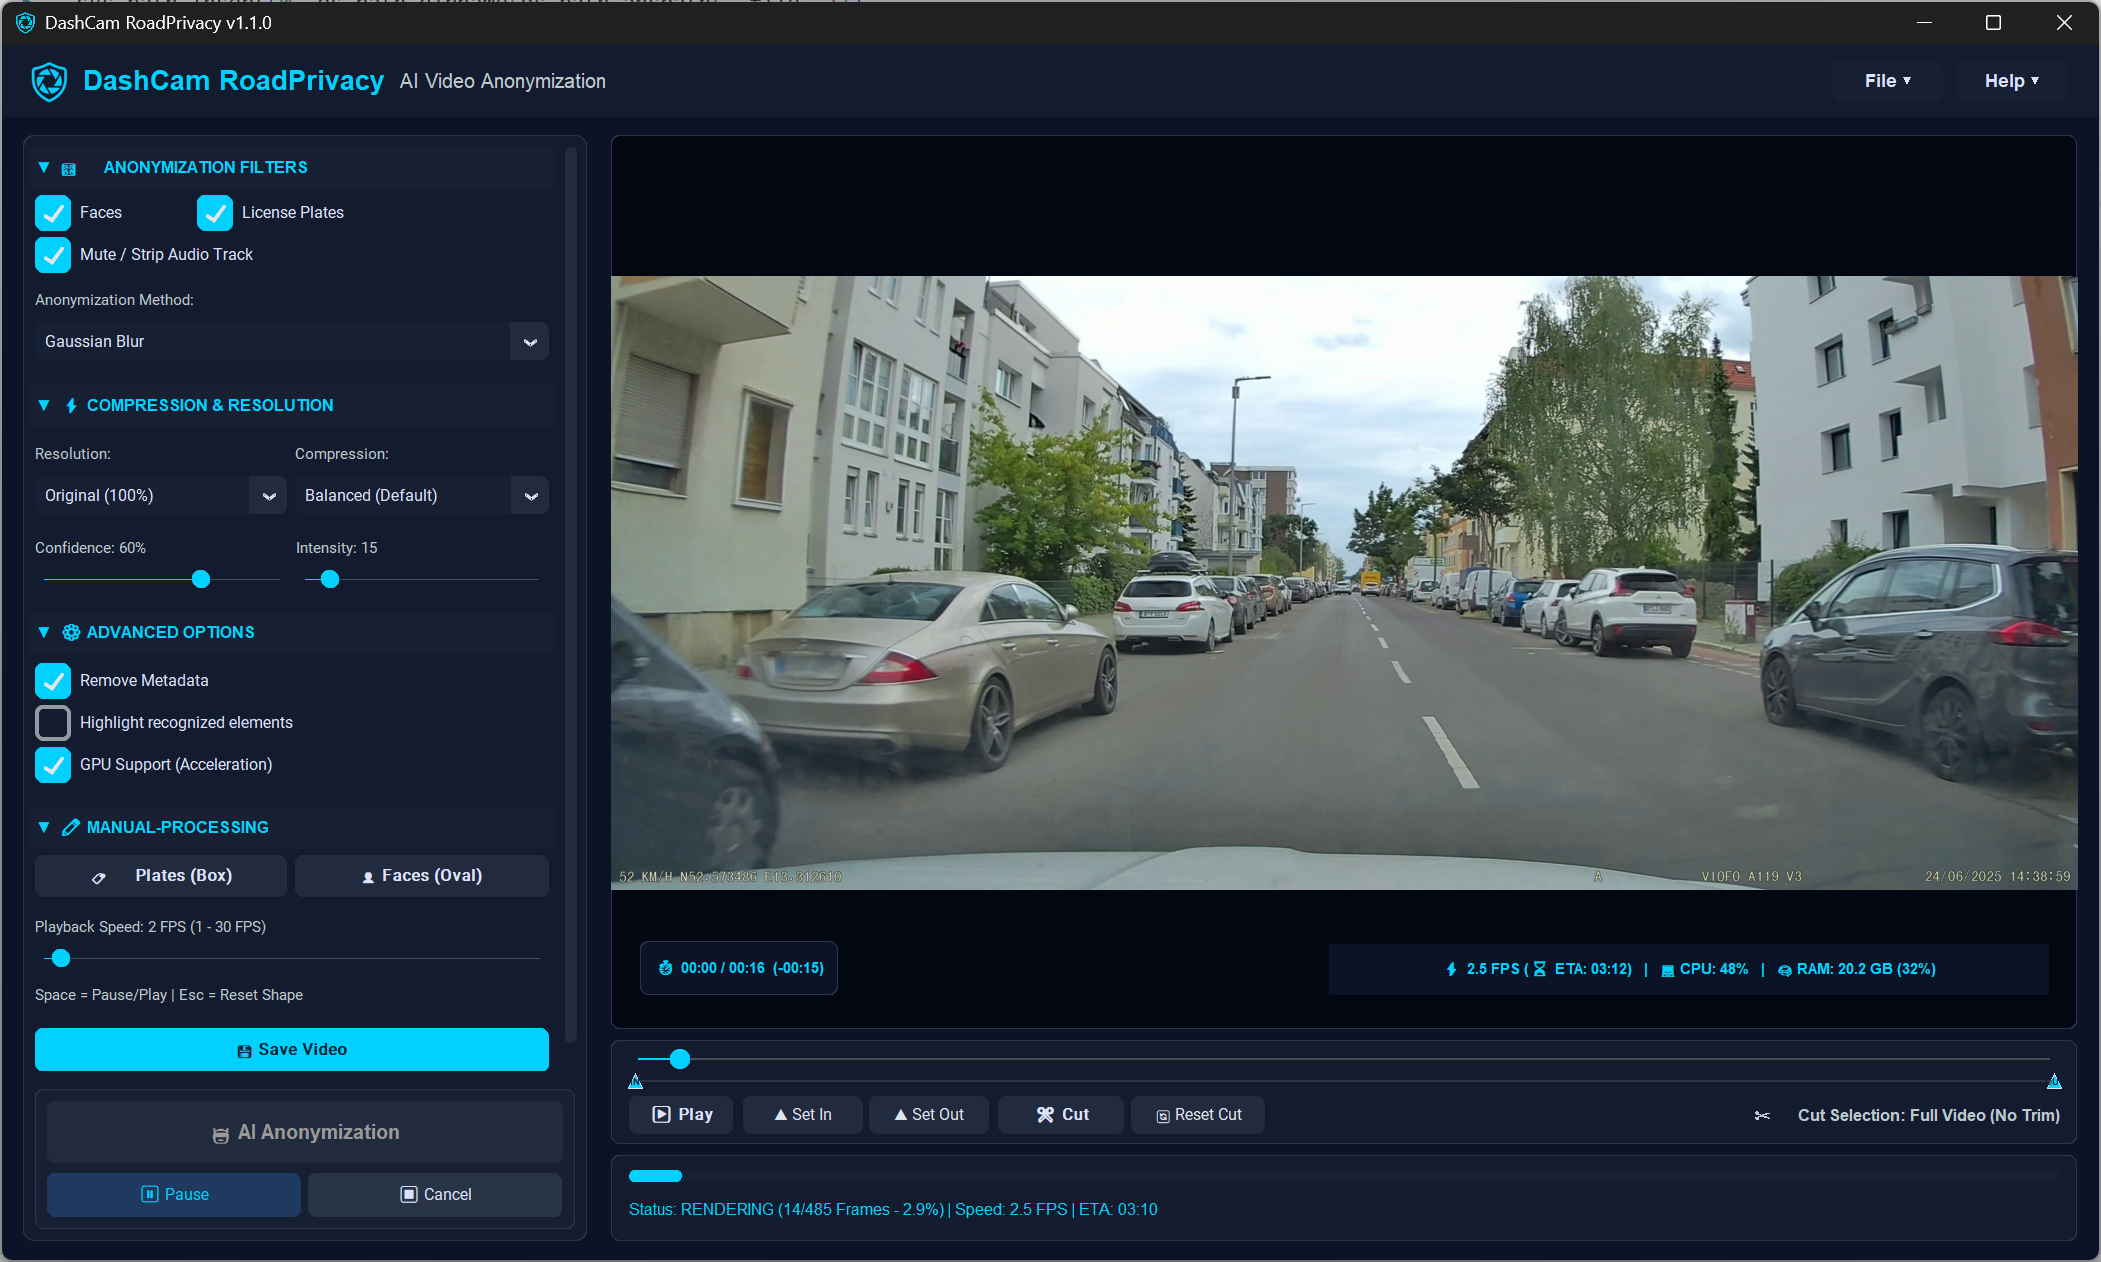
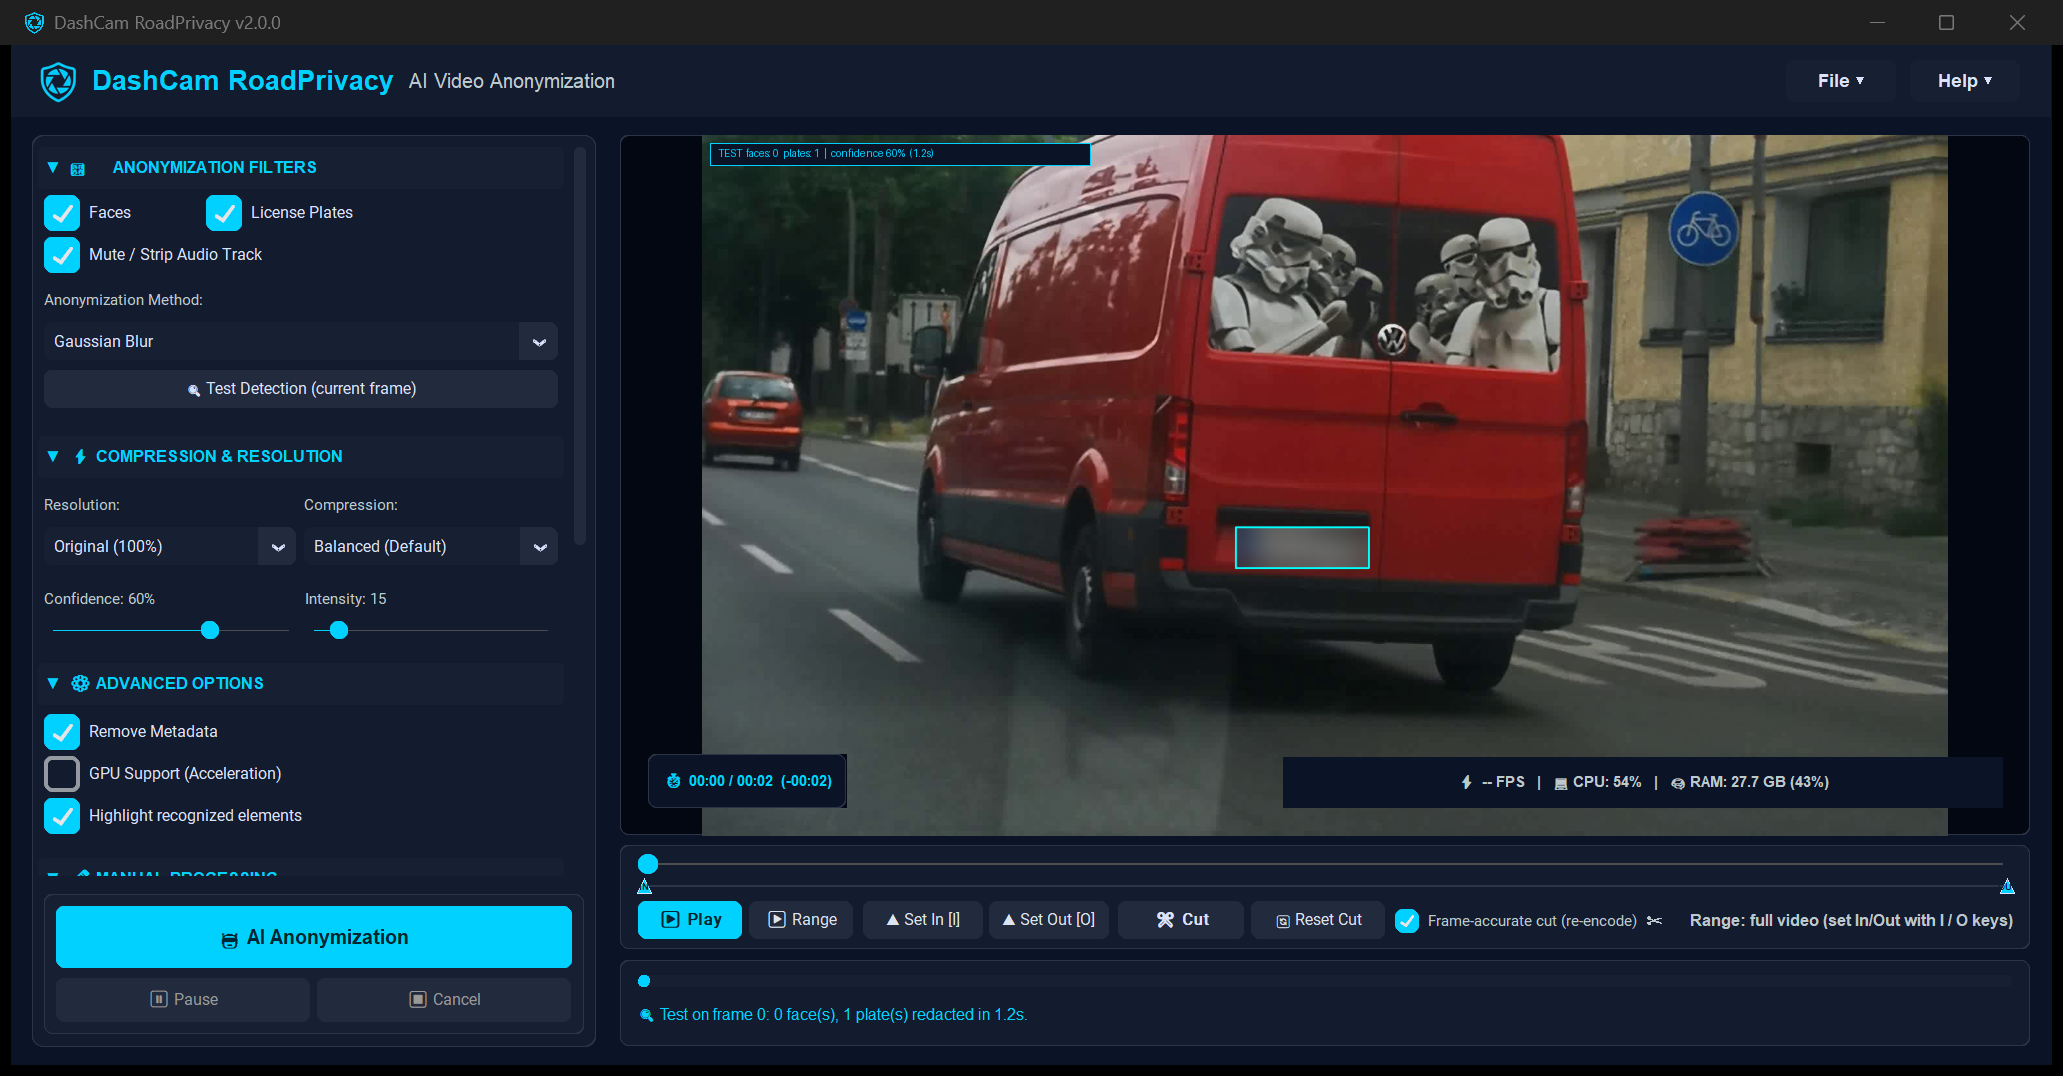
Release v2.0.0: Update binaries, screenshot, and documentation for V2.0

diff --git a/README.md b/README.md
@@ -1,6 +1,6 @@
 # DashCam RoadPrivacy
 
-[![Release Version](https://img.shields.io/badge/Release-v1.1.0-electriccyan?style=for-the-badge&logo=github)](https://github.com/engstaNET/DashCam_RoadPrivacy/releases)
+[![Release Version](https://img.shields.io/badge/Release-v2.0.0-electriccyan?style=for-the-badge&logo=github)](https://github.com/engstaNET/DashCam_RoadPrivacy/releases)
 [![Platform](https://img.shields.io/badge/Platform-Windows%2010%2F11%20x64-blue?style=for-the-badge&logo=windows)](https://github.com/engstaNET/DashCam_RoadPrivacy)
 [![License](https://img.shields.io/badge/License-Freeware-green?style=for-the-badge)](LICENSE)
 [![Privacy](https://img.shields.io/badge/Privacy-100%25%20Local%20%2F%20Offline-success?style=for-the-badge)](PRIVACY.md)
@@ -13,30 +13,35 @@
 
 ## 🌟 Key Features
 
-- **⚡ Dual AI Engine Detection:**
-  - **License Plates:** Dedicated deep learning **RT-DETRv2 ONNX** model combined with multi-stage YOLOv8 and Haar Cascade verification for high-precision country-neutral automotive plate detection.
-  - **Faces:** Ultra-fast OpenCV YuNet DNN Face Detector tuned for distant and small faces in public street scenes.
-- **🚀 GPU Hardware Acceleration:** Microsoft DirectML & ONNX Runtime support for NVIDIA, AMD, and Intel GPUs, plus multi-threaded CPU fallback.
-- **✏ Interactive Manual-Processing Mode:** Frame-by-frame manual redaction tool allowing custom bounding boxes and shapes with instant timeline scrubbing and synchronization.
+- **🎯 Vehicle-Restricted License Plate Detection:**
+  - **YOLOv8 & RT-DETRv2 Pipeline:** YOLOv8 identifies vehicles first; RT-DETRv2 ONNX scans vehicle regions exclusively to eliminate background false positives on pavement, walls, and road markings.
+  - **1080p Detail Tiles:** Alternating high-resolution detail passes double detection recall for distant and parked vehicle plates on 1080p+ footage.
+  - **Look-Behind Redaction:** Frames are buffered to ensure plates and faces are redacted even before detection confirmation thresholds are met.
+- **⚡ Face Detection:**
+  - Ultra-fast OpenCV YuNet DNN Face Detector tuned for distant and small faces in public street scenes.
+- **🚀 GPU Hardware Acceleration & Auto-Benchmarking:**
+  - Microsoft DirectML & ONNX Runtime support for NVIDIA, AMD, and Intel GPUs.
+  - Startup benchmark automatically evaluates DirectML vs. CPU cores and selects the fastest provider.
+- **✏ Interactive Manual-Processing Mode:**
+  - Keyframe-based timeline editor with automated CSRT tracking, backward tracking, jump/end/delete, and manual test detection.
 - **🔒 100% Local & Private:** Runs entirely offline on your PC. No internet connection required, zero cloud uploads, and zero telemetry.
-- **✂ Lossless Stream-Copy Video Trimming:** Keyframe-aligned sub-second fast trim without video re-encoding when cutting.
-- **🎛 Anonymization Customization:**
-  - **Redaction Modes:** Gaussian Blur, Mosaic Pixelation, and Solid Blackout.
-  - **Adjustable Controls:** Dynamic confidence thresholding and blur intensity sliders.
+- **✂ Lossless Stream-Copy Video Trimming:** Keyframe-aligned sub-second fast trim without video re-encoding when cutting clips.
+- **🎬 Single-Pass Video Compression:**
+  - Direct FFmpeg streaming into NVIDIA NVENC, Intel QSV, AMD AMF, or multi-threaded CPU libx264.
+  - Redaction modes: Gaussian Blur, Mosaic Pixelation, and Solid Blackout.
 - **🛡 Metadata Stripping & Audio Control:** Strip EXIF/GPS telemetry metadata and optionally mute or preserve audio tracks.
-- **🎬 Branded Outro Sequence:** Appends a clean 2-second branded closing screen with centered logo at video resolution.
 - **📦 Portable Standalone Executable:** Self-contained package bundling FFmpeg and all AI models. No Python installation or external dependencies required. Simply download, extract, and run.
 
 ---
 
 ## 📥 Download & Installation
 
-### Latest Release: **v1.1.0**
+### Latest Release: **v2.0.0**
 
 1. Go to the [Releases](https://github.com/engstaNET/DashCam_RoadPrivacy/releases) page.
-2. Download `DashCam_RoadPrivacy_v1.1.0_win64.zip`.
-3. Extract the ZIP archive to any directory on your PC.
-4. Launch `RoadPrivacy_v1.1.0.exe`.
+2. Download `DashCam_RoadPrivacy_v2.0.0_win64.zip` (Portable ZIP) or `RoadPrivacy_v2.0.0.exe` (Single Standalone Executable).
+3. If using the ZIP archive, extract it to any directory on your PC.
+4. Launch `RoadPrivacy_v2.0.0.exe`.
 
 > **Note for Windows Defender / SmartScreen:**  
 > Since the executable is freshly built and self-signed, Windows Defender SmartScreen may show an informational warning. Click **More info** -> **Run anyway**.
@@ -49,12 +54,13 @@ To ensure that your download has not been tampered with, you can verify the SHA-
 
 | File Name | Target Platform | SHA-256 Hash |
 | :--- | :--- | :--- |
[3 lines of base64/hex data omitted]
 
 ### Verifying Hashes in Windows PowerShell:
 
 ```powershell
-Get-FileHash -Algorithm SHA256 .\DashCam_RoadPrivacy_v1.1.0_win64.zip
+Get-FileHash -Algorithm SHA256 .\DashCam_RoadPrivacy_v2.0.0_win64.zip
 ```
 
 ---
